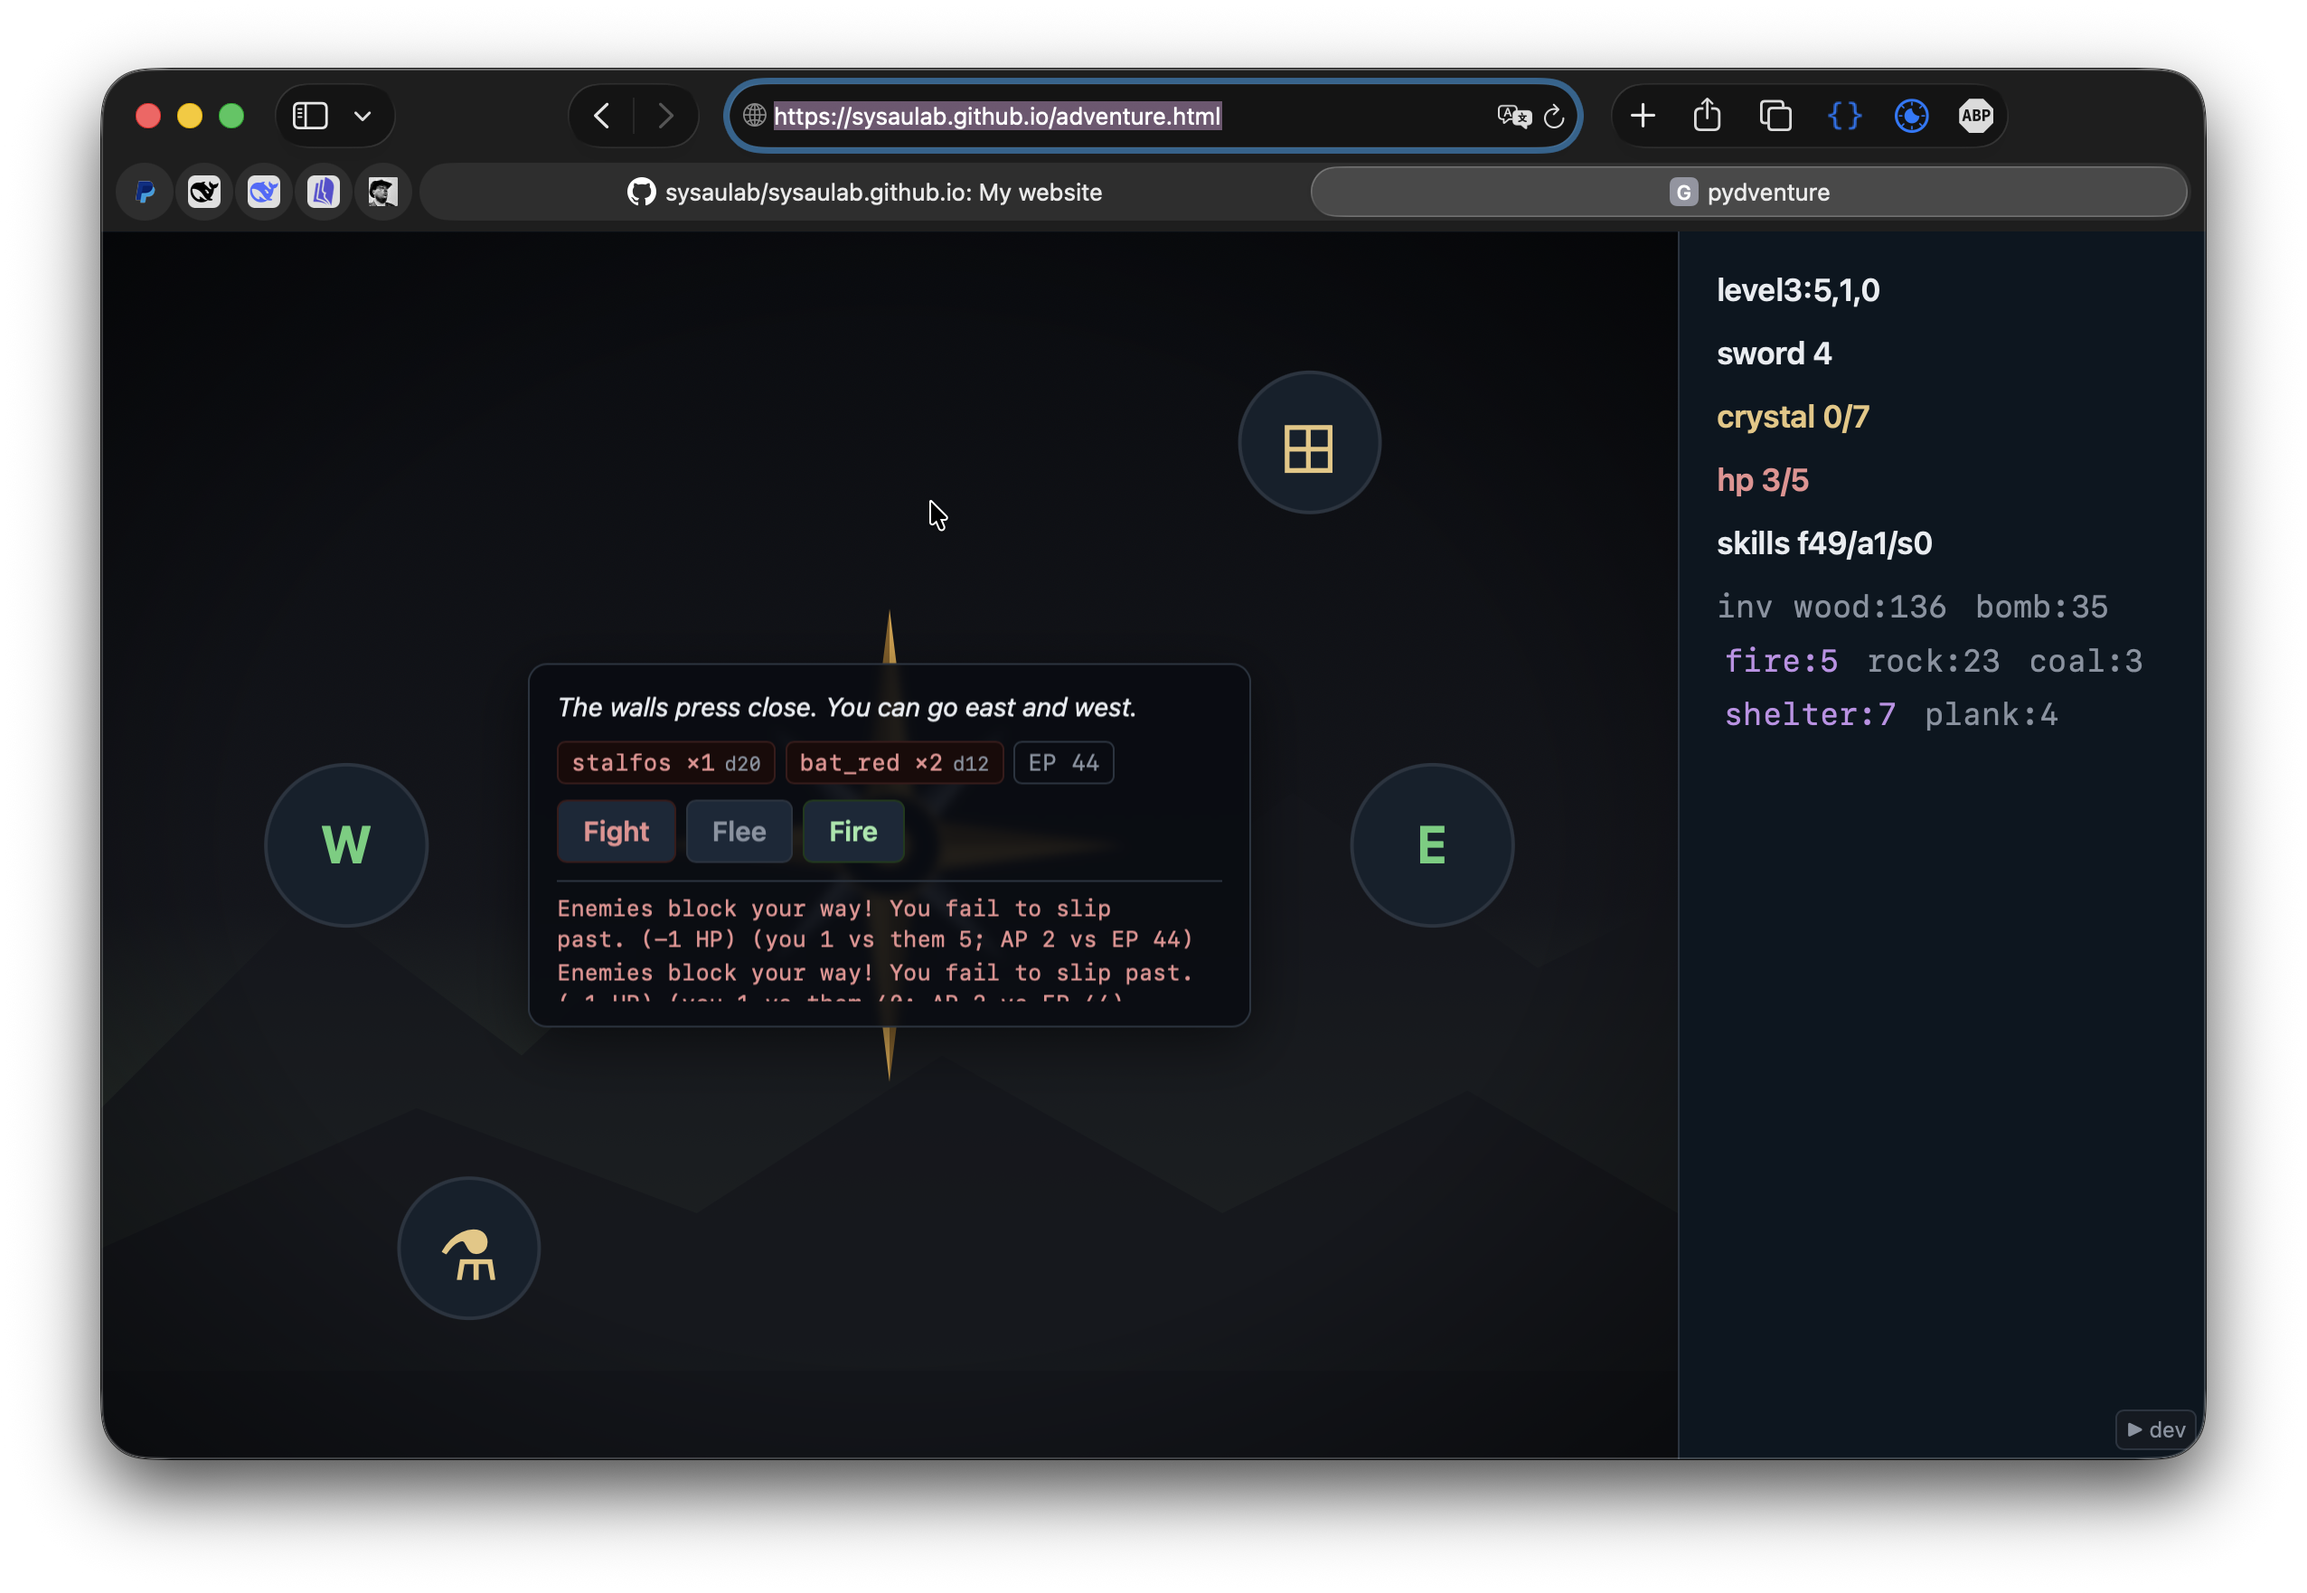
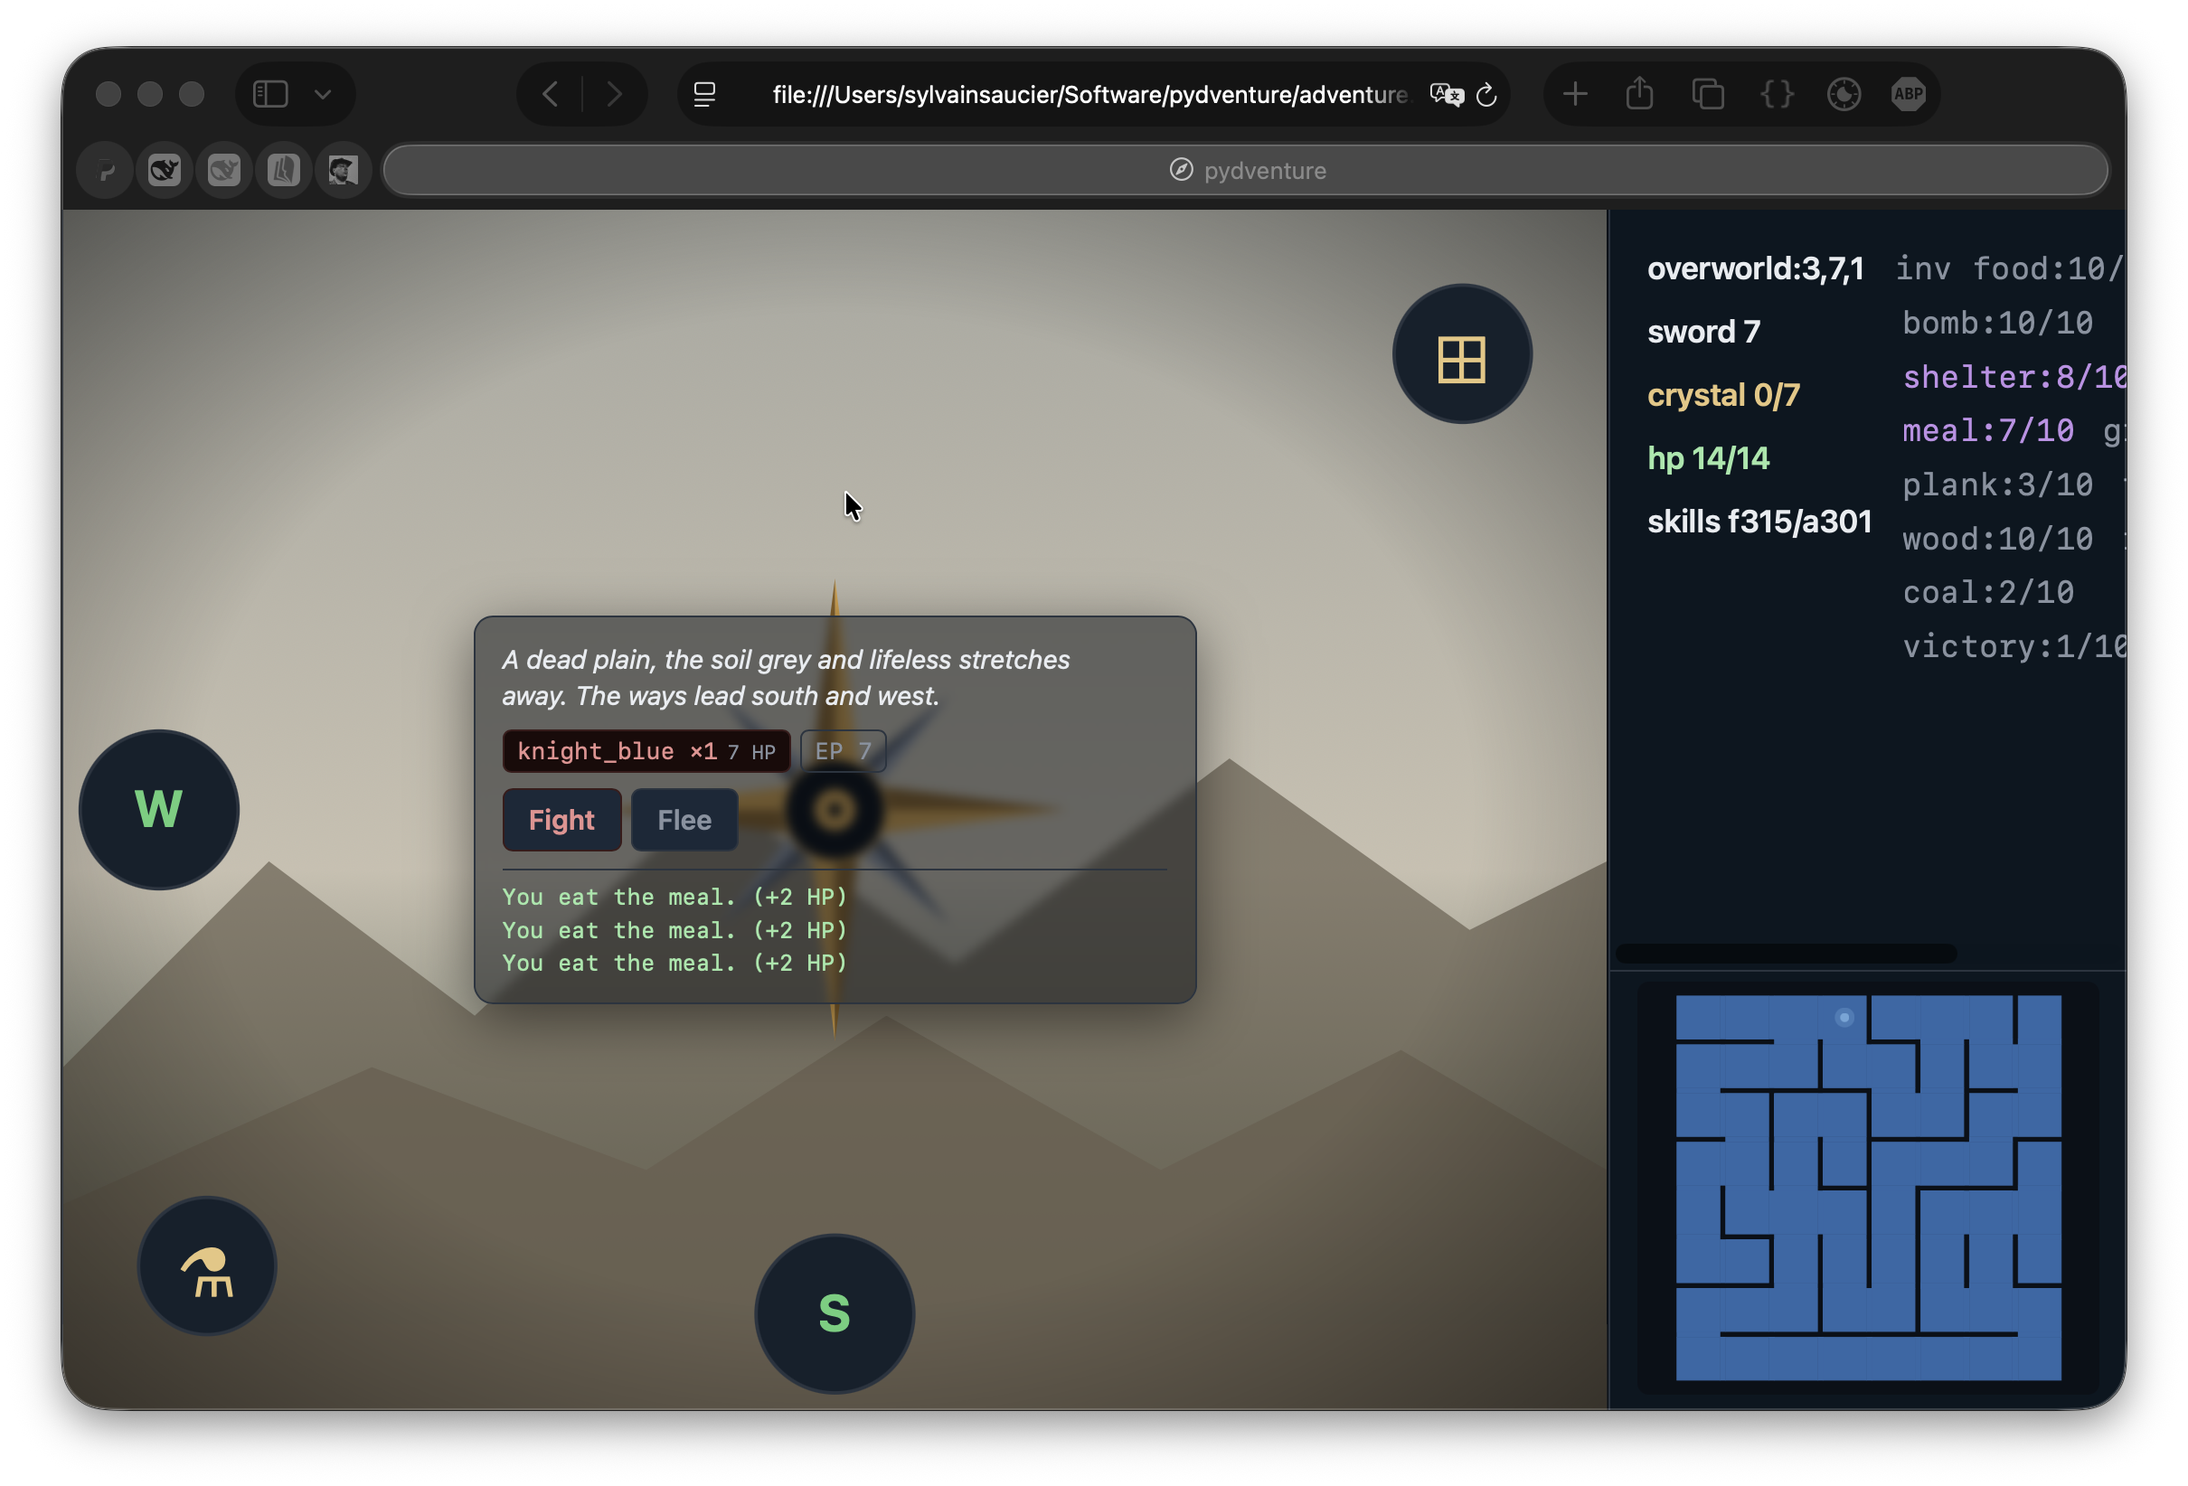
minor update

diff --git a/adventure.html b/adventure.html
@@ -735,20 +735,29 @@ const ENEMIES = {
   dragon_red:   { difficulty: 500 },
 };
 
+// ---------------------------------------------------------------------------
+// DROPS
+// ---------------------------------------------------------------------------
+// `food` drops only from overworld enemies (plains/forest/desert/dead_plain/
+// cemetery/valley/cave).  Dungeon and shrine enemies never drop food.
+
 const DROPS = {
-  octorok_blue: { items: { wood: [0, 1] } },
-  bat_blue:     { items: { wood: [0, 1] } },
-  spider_blue:  { items: { wood: [0, 1] } },
-  fan:          { items: { wood: [0, 1] } },
-  rhinos:       { items: { wood: [0, 1], rock: [0, 1] } },
-  knight_blue:  { items: { wood: [0, 1], rock: [0, 1] } },
-  octorok_red:  { items: { wood: [0, 1], rock: [0, 1] } },
-  bat_red:      { items: { wood: [0, 1] } },
-  spider_red:   { items: { wood: [0, 1], rock: [0, 1] } },
-  fan_red:      { items: { wood: [0, 1], rock: [0, 1], bomb: [0, 1] } },
-  rhinos_red:   { items: { wood: [0, 1], rock: [0, 1], bomb: [0, 1] } },
-  knight_red:   { items: { wood: [0, 1], rock: [0, 1], bomb: [0, 1] } },
-  ghosts:       { items: { wood: [0, 1], rock: [0, 1], bomb: [0, 1] } },
+  // ---- overworld enemies (drop food) ----
+  octorok_blue: { items: { wood: [0, 1], food: [0, 1] } },
+  bat_blue:     { items: { wood: [0, 1], food: [0, 1] } },
+  spider_blue:  { items: { wood: [0, 1], food: [0, 1] } },
+  fan:          { items: { wood: [0, 1], food: [0, 1] } },
+  rhinos:       { items: { wood: [0, 1], rock: [0, 1], food: [0, 1] } },
+  knight_blue:  { items: { wood: [0, 1], rock: [0, 1], food: [0, 1] } },
+  octorok_red:  { items: { wood: [0, 1], rock: [0, 1], food: [0, 1] } },
+  bat_red:      { items: { wood: [0, 1], food: [0, 1] } },
+  spider_red:   { items: { wood: [0, 1], rock: [0, 1], food: [0, 1] } },
+  fan_red:      { items: { wood: [0, 1], rock: [0, 1], bomb: [0, 1], food: [0, 1] } },
+  rhinos_red:   { items: { wood: [0, 1], rock: [0, 1], bomb: [0, 1], food: [0, 1] } },
+  knight_red:   { items: { wood: [0, 1], rock: [0, 1], bomb: [0, 1], food: [0, 1] } },
+  ghosts:       { items: { wood: [0, 1], rock: [0, 1], bomb: [0, 1], food: [0, 1] } },
+
+  // ---- dungeon / shrine enemies (no food) ----
   stalfos:      { items: { wood: [0, 1], rock: [0, 1], bomb: [0, 1] } },
   darknut:      { items: { wood: [0, 1], rock: [0, 1], bomb: [0, 1] } },
   wizzrobe:     { items: { wood: [0, 1], rock: [0, 1], bomb: [0, 1] } },
@@ -758,12 +767,14 @@ const DROPS = {
 
 const RECIPES = [
   { inputs: { wood: 2 },                    output: { item: "fire" } },
-  { inputs: { rock: 2 },                    output: { item: "blunt_knife" } },
-  { inputs: { blunt_knife: 1, wood: 1 },    output: { item: "plank" } },
+  { inputs: { rock: 2 },                    output: { item: "tool" } },
+  { inputs: { tool: 1, wood: 1 },           output: { item: "plank" } },
   { inputs: { plank: 2 },                   output: { item: "shelter" } },
   { inputs: { fire: 1, wood: 1 },           output: { item: "coal" } },
+  { inputs: { coal: 2 },                    output: { item: "grill" } },
+  { inputs: { grill: 1, food: 1 },          output: { item: "meal" } },
   { inputs: { coal: 1, ore: 1 },            output: { item: "steel" } },
-  { inputs: { blunt_knife: 1, steel: 1 },   output: { item: "sword" } },
+  { inputs: { tool: 1, steel: 1 },          output: { item: "sword" } },
 ];
 
 const TERRAINS = {
@@ -841,6 +852,8 @@ const DIR_NAMES = { N: "north", E: "east", S: "south", W: "west", U: "up", D: "d
 const FIRE_MIN_DAMAGE = 10;
 const FIRE_MAX_DAMAGE = 20;
 const MAX_ITEM_COUNT  = 10;
+const RESPAWN_DELAY_MS = 180 * 1000;                 // 3 minutes
+const RESPAWN_RATES    = { overworld: 0.15, dungeon: 0.35, shrine: 0.35 };
 
 // ============================================================================
 // RNG
@@ -1610,13 +1623,27 @@ class Session {
     const p = this.player;
     const key = `${p.map}|${p.x},${p.y},${p.z}`;
     let room = this.deltas[key];
+    const now = Date.now();
     if (!room) {
       const pristine = this.world.getRoom(p.map, p.x, p.y, p.z);
       if (!pristine) { this.roomState = null; return; }
       room = JSON.parse(JSON.stringify(pristine));
       this.deltas[key] = room;
+    } else if (room.lastVisited && now - room.lastVisited > RESPAWN_DELAY_MS) {
+      this.maybeRespawnEnemies(room);
     }
+    room.lastVisited = now;
     this.roomState = new RoomState(room, this.player);
+  }
+
+  maybeRespawnEnemies(room) {
+    const level = this.world.levels[this.player.map];
+    if (!level) return;
+    const rate = RESPAWN_RATES[level.kind] ?? 0;
+    if (rate <= 0 || Math.random() >= rate) return;
+    const pristine = this.world.getRoom(room.map, room.x, room.y, room.z);
+    if (!pristine || !pristine.enemies.length) return;
+    room.enemies = pristine.enemies.map(e => ({ name: e.name, hp: enemyMaxHp(e.name) }));
   }
   neighborCoords(dir) {
     const [dx, dy, dz] = DELTA[dir] || [0, 0, 0];
@@ -1711,6 +1738,7 @@ class Session {
     const heartItem   = this.combat.heart_item;
     const shelterItem = this.combat.shelter_item;
     const fireItem    = this.combat.fire_item;
+    const mealItem    = this.combat.meal_item;
 
     if (item === fireItem) {
       if (dir) return { ok: false, msg: "Fire doesn't take a direction." };
@@ -1725,6 +1753,12 @@ class Session {
       this.player.removeItem(shelterItem, 1);
       this.player.healFull();
       return { ok: true, msg: "You rest by the fire and recover your strength." };
+    }
+    if (item === mealItem) {
+      if (!this.player.hasItem(mealItem)) return { ok: false, msg: `You have no ${mealItem}.` };
+      this.player.removeItem(mealItem, 1);
+      this.player.hp = Math.min(this.player.hp + 2, this.player.maxHp);
+      return { ok: true, msg: "You eat the meal. (+2 HP)" };
     }
     if (item === heartItem) {
       if (!this.player.hasItem(heartItem)) return { ok: false, msg: `You have no ${heartItem}.` };
@@ -1798,10 +1832,11 @@ class Session {
     const heartItem   = this.combat.heart_item;
     const shelterItem = this.combat.shelter_item;
     const fireItem    = this.combat.fire_item;
+    const mealItem    = this.combat.meal_item;
     const isFight = action === "fight" || (action === "use" && parts[1] === "fight");
     const isFlee  = action === "flee" || action === "avoid"
                  || (action === "use" && ["avoidance", "flee", "avoid"].includes(parts[1]));
-    const isHeal  = action === "use" && [heartItem, shelterItem].includes(parts[1]);
+    const isHeal  = action === "use" && [heartItem, shelterItem, mealItem].includes(parts[1]);
     const isFire  = action === "use" && parts[1] === fireItem;
     const isMeta  = isHeal || isFire;
     if (!isFight && !isFlee && !isMeta) {
@@ -2027,7 +2062,8 @@ function isUsableItem(name) {
   const c = currentSession.combat;
   return name === c.fire_item
       || name === c.shelter_item
-      || name === c.heart_item;
+      || name === c.heart_item
+      || name === c.meal_item;
 }
 
 function renderStatus(state) {
@@ -2134,7 +2170,7 @@ function classify(line) {
   if (line.includes("VICTORY")) return "title";
   if (low.includes("victory") || low.includes("defeat the") || low.includes("you take")
       || low.includes("you combine") || low.includes("you rest") || low.includes("you collect")
-      || low.includes("you hurl")) return "good";
+      || low.includes("you hurl") || low.includes("you eat")) return "good";
   if (low.includes("driven back") || low.includes("fail") || low.includes("need ")
       || low.includes("collapse") || low.includes("cannot") || low.includes("unknown")
       || low.includes("don't") || low.includes("can't carry")) return "bad";
@@ -2341,6 +2377,7 @@ function buildFullConfig({ name, width, height, seed }) {
       damage_per_fail: 1,
       heart_item: "heart",
       shelter_item: "shelter",
+      meal_item: "meal",
       fire_item: "fire",
       death: { restore_hp: true },
     },
